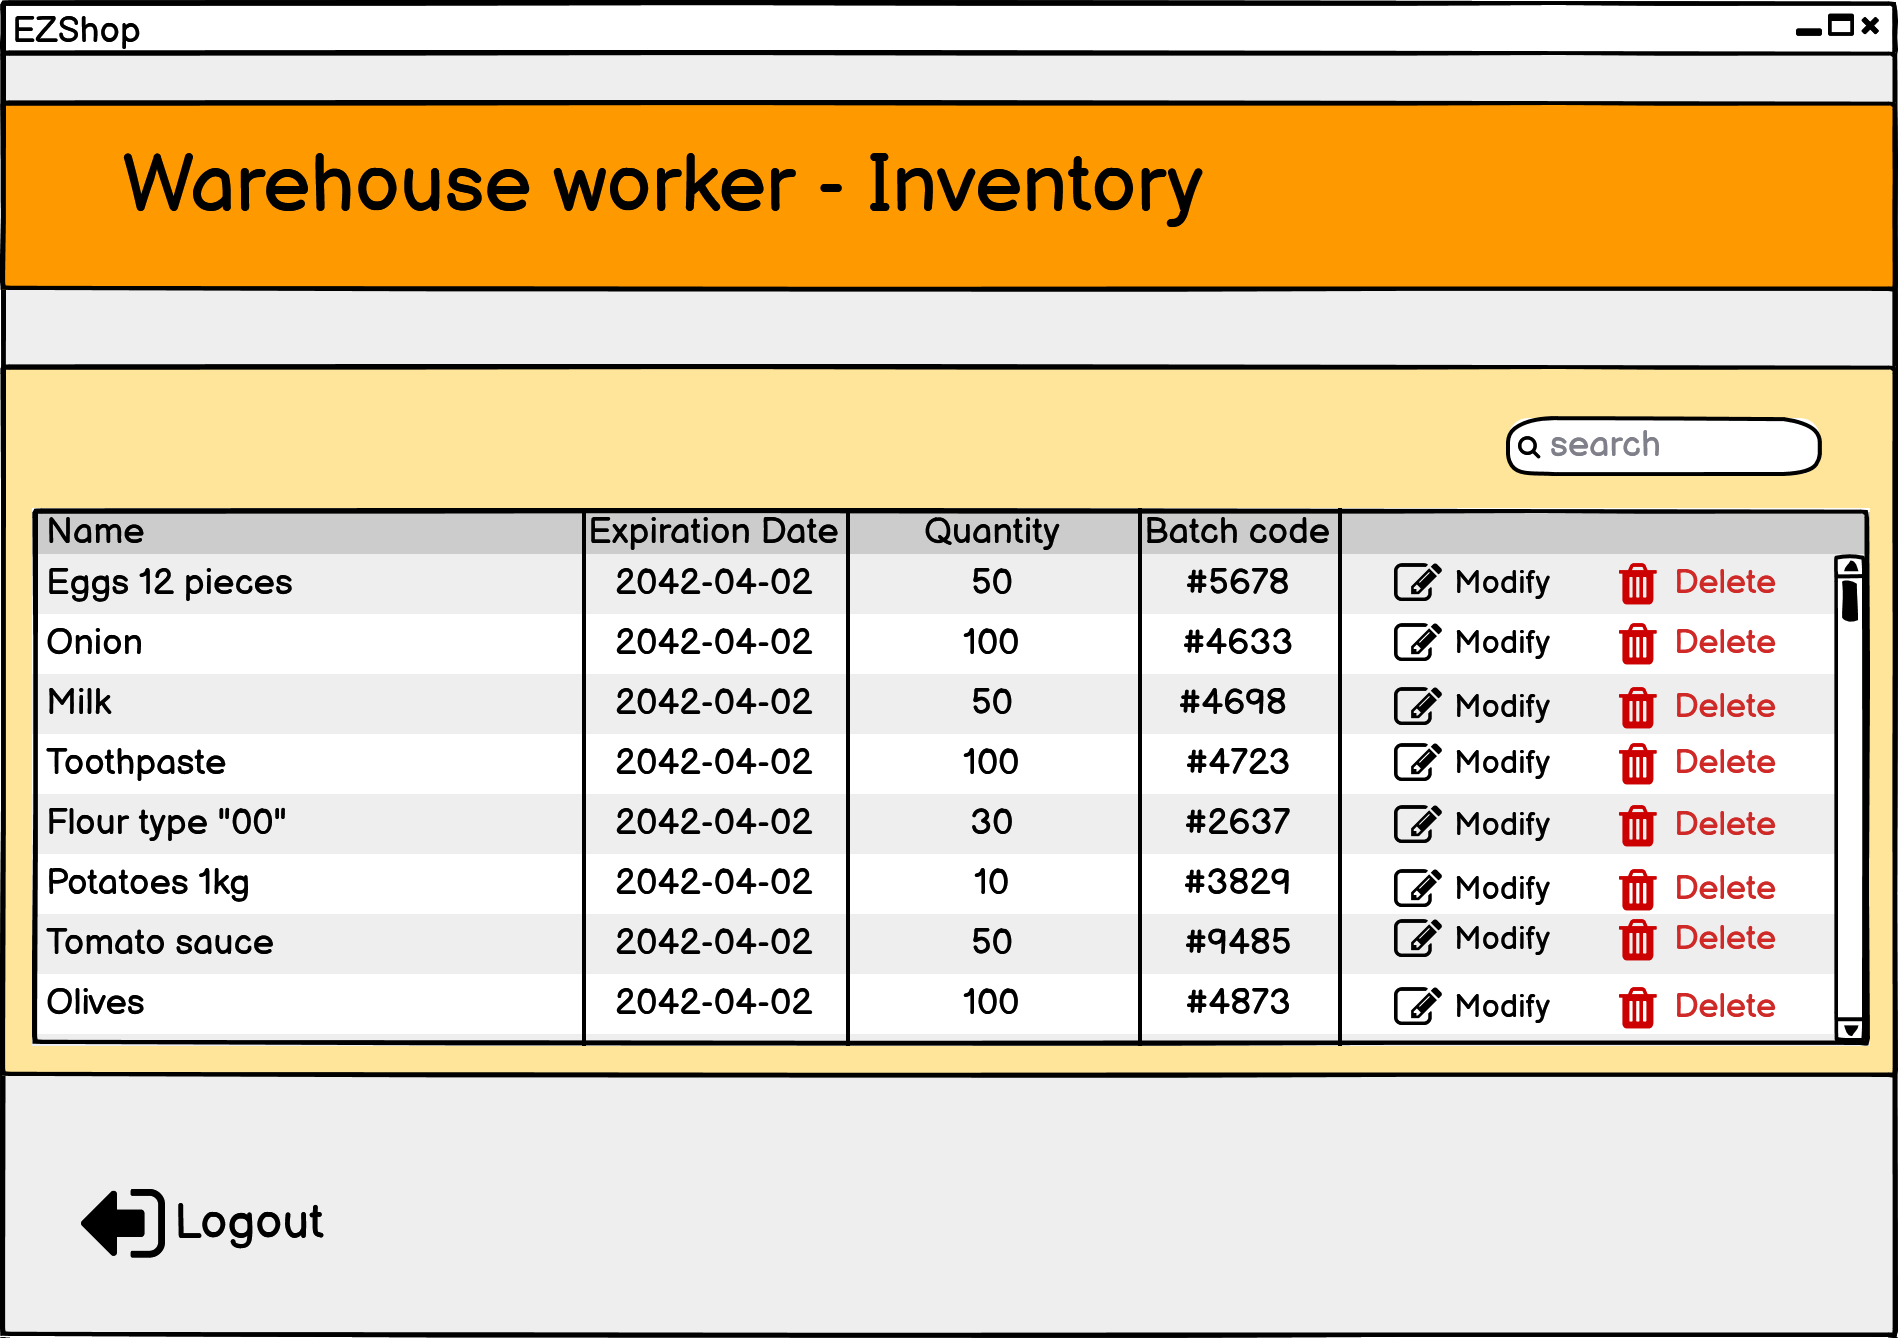
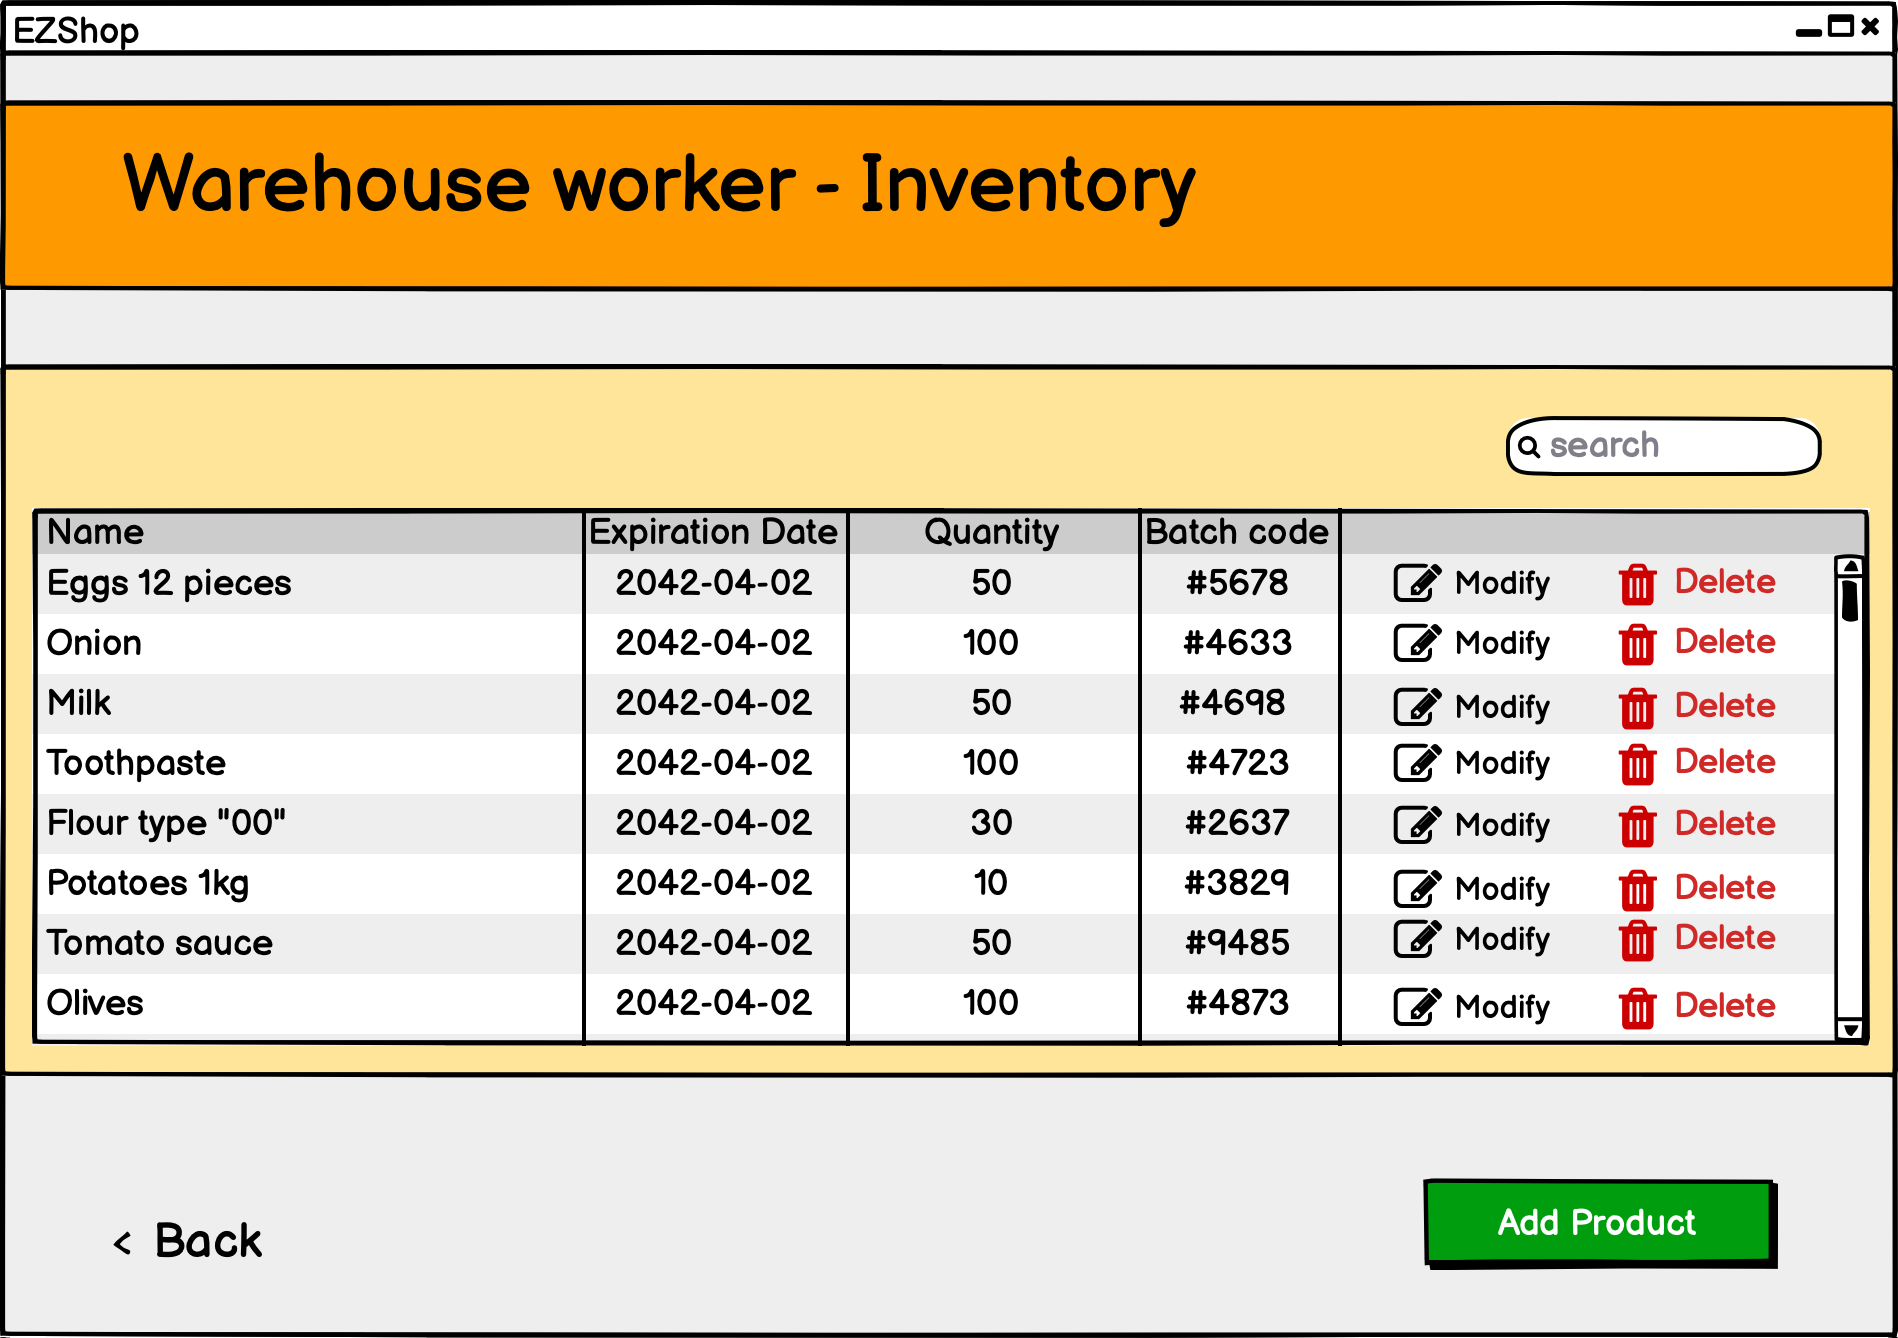
add images

diff --git a/Deliverables/GUIPrototype.md b/Deliverables/GUIPrototype.md
@@ -32,6 +32,8 @@ Version: 1.0
 
 <div><img src="./Images/Warehouse worker- Inventory.png" alt="Warehouse" width="60%" height="auto"/></div>
 
+<div><img src="./Images/Add Product.png" alt="Warehouse" width="60%" height="auto"/></div>
+
 <div><img src="./Images/Cashier Sale.png" alt="Cashier" width="60%" height="auto"/></div>
 
 <div><img src="./Images/Success.png" alt="Success" width="60%" height="auto"/></div>
